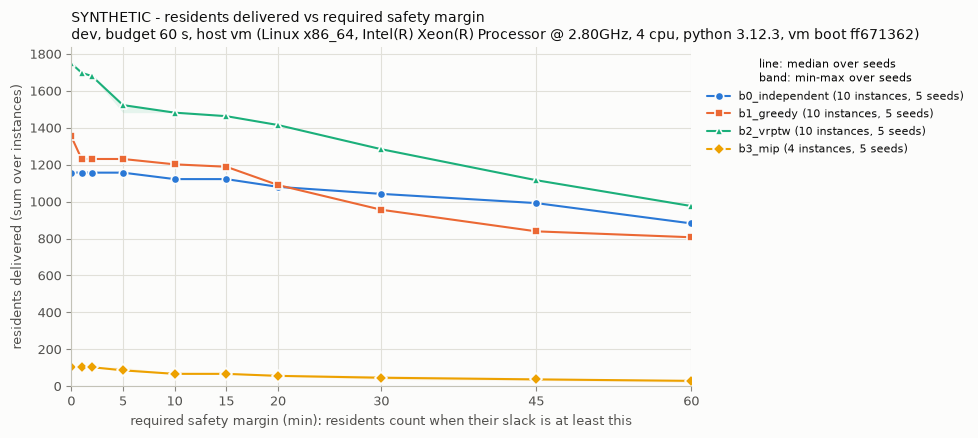
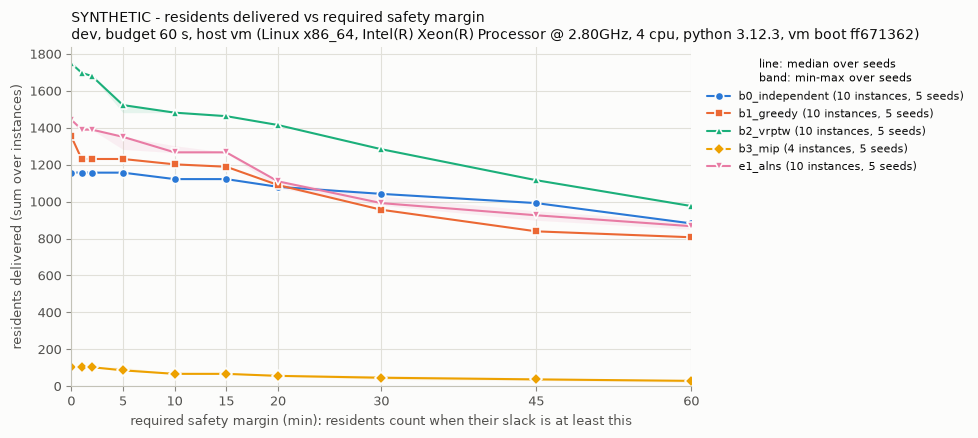
evacplan: leaderboard and margin figure with all batch-1 rows
Regenerated after merging E4, E1 and E3 (SYNTHETIC dev, 60 s, this VM
session): E1 1444 [1443-1446], verdict no (worst 1443 <= bar 1750); E4's
bounds join the best-bound column (no bound below a delivered plan).

Claude-Session: https://claude.ai/code/session_017vgyRQ18Wb67jh12VCHF54

diff --git a/evacplan/LEADERBOARD.md b/evacplan/LEADERBOARD.md
@@ -9,6 +9,7 @@ Regenerated by `evacplan run` and `evacplan leaderboard` from `evacplan/results/
 * **Beating B2** (`program/DECISIONS.md`, 2026-11-01): the **best-of-baselines total** is the sum over the set's instances of the most residents any baseline (B0, B1, B2, B3; any seed) delivered on that instance; **B2 best observed** is the largest B2 per-seed total over the seeds that cover every instance of the set, or a recorded observation of B2 for the same set, budget and host (`docs/recorded_observations.json`, printed with its source), whichever is larger; the **bar** is the larger of the two. A method other than the baselines and noop beats B2 only if its worst of 5 repeats exceeds the bar: it needs at least 5 repeats, each covering every instance of the set, and its lowest per-seed total must be above the bar. Otherwise the verdict is no (worst ≤ bar) or n/a (fewer than 5 repeats, a repeat missing an instance, or no bar on this host).
 * **slack ≥ m min** = residents delivered with a safety slack of at least m minutes: the smallest oracle leg slack over their vehicle's legs from the start of its itinerary through the unloading that delivers them, each leg's slack capped at the time left before the hazard horizon (`docs/ASSUMPTIONS.md` #91). slack ≥ 0 equals delivered. The problem definition is unchanged: delivered counts every checked trip whatever its margin. Each table's figure plots residents delivered against the required margin (0-60 min).
 * **mean gap** = mean of (best bound - delivered) / best bound over the method's own proven bounds (exact or relaxation methods, e.g. B3 on S instances only); a method that runs on fewer instances is summed over fewer residents (see the size table).
+* **Bound-only methods** (e.g. `e4_flow_bound`, `docs/ASSUMPTIONS.md` #94) plan nothing and only prove an upper bound on the residents any plan can deliver. Their bounds enter the best-bound column and their own bounds table (with runtime and the gap to the best plan of the table); they are left out of the method table, the verdicts and the margin figure. A proven bound does not depend on the budget that computed it, so their rows join every table of the same set and host.
 * **SYNTHETIC** rows are SYNTHETIC instances (`evacplan/instances/SPLIT.json`), not real-world results.
 
 ## dev, budget 60 s, host vm (Linux x86_64, Intel(R) Xeon(R) Processor @ 2.80GHz, 4 cpu, python 3.12.3, vm boot ff671362)
@@ -21,6 +22,7 @@ Rows from this host only; no row of another host enters this table, its bar or i
 | b1_greedy | SYNTHETIC | 10 | 5 | 1353 (68.5%) | 0 | 0 | 622 | 1 | 1975 | 1231 | 1189 | 956 | 1.9 | 3.987 | 0 | – | baseline | c888a87b02c5 |
 | b2_vrptw | SYNTHETIC | 10 | 5 | 1749 (88.6%) | 0 | 0 | 226 | 1 | 1975 | 1523 [1482–1523] | 1463 | 1284 | 16.7 | 57.517 | 0 | – | baseline | c78721e60526 |
 | b3_mip | SYNTHETIC | 4 | 5 | 103 (89.6%) [103–104] | 0 | 0 | 12 [11–12] | 1 | 115 | 86 [85–103] | 67 [66–68] | 46 [37–57] | 223.3 | 40.875 | 0 | 0.087 | baseline | c888a87b02c5 |
+| e1_alns | SYNTHETIC | 10 | 5 | 1444 (73.1%) [1443–1446] | 0 | 0 | 531 [529–532] | 1 | 1975 | 1351 [1283–1352] | 1267 [1265–1267] | 992 [980–1030] | 1.9 | 55.764 | 0 | – | no (worst 1443 ≤ bar 1750) | 483eb527cba4 |
 | noop | SYNTHETIC | 10 | 5 | 0 (0.0%) | 0 | 0 | 1975 | 1 | 1975 | 0 | 0 | 0 | – | 0.000 | 0 | – | – | c888a87b02c5 |
 
 Bar for beating B2 on this host: max(B2 best observed 1750 [recorded: Phase 0 review, B2's full run on dev at 60 s, review of commit 957e6720 (program/reviews/phase0-review.md)], best-of-baselines total 1750) = 1750; a method beats B2 only if its worst of ≥5 repeats exceeds 1750.
@@ -31,80 +33,97 @@ Residents delivered vs required safety margin (line: median over seeds; band: mi
 
 ![SYNTHETIC: residents delivered vs required margin, dev, 60 s, this host](figures/margin_dev_60s_vm-linux-x86-64-intel-r-xeon-r-processor-2-80ghz-4-cpu-python-3-12-3-vm-boot-ff6-ef32643b.png)
 
-Delivered (checked) per instance, median over seeds [min–max when they differ]; **best bound** = the smallest proven upper bound any method reports for the instance (no plan can deliver more); **best of baselines** = the most residents any baseline delivered on the instance (any seed), summed in the bar above:
+Delivered (checked) per instance, median over seeds [min–max when they differ]; **best bound** = the smallest proven upper bound any method reports for the instance, bound-only methods included (no plan can deliver more); **best of baselines** = the most residents any baseline delivered on the instance (any seed), summed in the bar above:
 
-| instance | label | residents | unservable | best bound | best of baselines | b0_independent | b1_greedy | b2_vrptw | b3_mip | noop |
-|---|---|---|---|---|---|---|---|---|---|---|
-| SYNTHETIC-S-grid-t25-s101 | SYNTHETIC | 23 | 0 | 23 | 23 | 23 | 23 | 23 | 23 | 0 |
-| SYNTHETIC-S-geo-t25-s102 | SYNTHETIC | 39 | 0 | 39 | 37 | 28 | 37 | 36 | 34 [34–35] | 0 |
-| SYNTHETIC-S-grid-t75-s103 | SYNTHETIC | 27 | 1 | 26 | 23 | 20 | 20 | 23 | 21 | 0 |
-| SYNTHETIC-S-geo-t75-s104 | SYNTHETIC | 26 | 0 | 26 | 26 | 10 | 24 | 26 | 25 | 0 |
-| SYNTHETIC-M-grid-t25-s105 | SYNTHETIC | 163 | 0 | – | 163 | 132 | 163 | 163 | – | 0 |
-| SYNTHETIC-M-geo-t25-s106 | SYNTHETIC | 155 | 0 | – | 155 | 128 | 155 | 155 | – | 0 |
-| SYNTHETIC-M-grid-t75-s107 | SYNTHETIC | 168 | 0 | – | 140 | 77 | 100 | 140 | – | 0 |
-| SYNTHETIC-M-geo-t75-s108 | SYNTHETIC | 149 | 0 | – | 139 | 95 | 101 | 139 | – | 0 |
-| SYNTHETIC-L-grid-t50-s109 | SYNTHETIC | 646 | 0 | – | 516 | 314 | 335 | 516 | – | 0 |
-| SYNTHETIC-L-geo-t50-s110 | SYNTHETIC | 579 | 0 | – | 528 | 330 | 395 | 528 | – | 0 |
+| instance | label | residents | unservable | best bound | best of baselines | b0_independent | b1_greedy | b2_vrptw | b3_mip | e1_alns | noop |
+|---|---|---|---|---|---|---|---|---|---|---|---|
+| SYNTHETIC-S-grid-t25-s101 | SYNTHETIC | 23 | 0 | 23 | 23 | 23 | 23 | 23 | 23 | 23 | 0 |
+| SYNTHETIC-S-geo-t25-s102 | SYNTHETIC | 39 | 0 | 39 | 37 | 28 | 37 | 36 | 34 [34–35] | 37 | 0 |
+| SYNTHETIC-S-grid-t75-s103 | SYNTHETIC | 27 | 1 | 25 | 23 | 20 | 20 | 23 | 21 | 23 | 0 |
+| SYNTHETIC-S-geo-t75-s104 | SYNTHETIC | 26 | 0 | 26 | 26 | 10 | 24 | 26 | 25 | 26 | 0 |
+| SYNTHETIC-M-grid-t25-s105 | SYNTHETIC | 163 | 0 | 163 | 163 | 132 | 163 | 163 | – | 163 | 0 |
+| SYNTHETIC-M-geo-t25-s106 | SYNTHETIC | 155 | 0 | 155 | 155 | 128 | 155 | 155 | – | 155 | 0 |
+| SYNTHETIC-M-grid-t75-s107 | SYNTHETIC | 168 | 0 | 160 | 140 | 77 | 100 | 140 | – | 148 [147–150] | 0 |
+| SYNTHETIC-M-geo-t75-s108 | SYNTHETIC | 149 | 0 | 144 | 139 | 95 | 101 | 139 | – | 139 | 0 |
+| SYNTHETIC-L-grid-t50-s109 | SYNTHETIC | 646 | 0 | 646 | 516 | 314 | 335 | 516 | – | 335 | 0 |
+| SYNTHETIC-L-geo-t50-s110 | SYNTHETIC | 579 | 0 | 579 | 528 | 330 | 395 | 528 | – | 395 | 0 |
+
+Proven upper bounds of bound-only methods (they plan nothing: not in the method table, no verdict, not in the figure; their rows join every table of this set and host, whatever budget computed them); **gap** = (bound - best delivered) / bound, **best delivered** = the most residents any method delivered on the instance in this table (any seed):
+
+| instance | label | residents | best delivered | e4_flow_bound | gap | runtime (s) |
+|---|---|---|---|---|---|---|
+| SYNTHETIC-S-grid-t25-s101 | SYNTHETIC | 23 | 23 | 23 | 0.0% | 3.9 |
+| SYNTHETIC-S-geo-t25-s102 | SYNTHETIC | 39 | 37 | 39 | 5.1% | 6.4 |
+| SYNTHETIC-S-grid-t75-s103 | SYNTHETIC | 27 | 23 | 25 | 8.0% | 1.3 |
+| SYNTHETIC-S-geo-t75-s104 | SYNTHETIC | 26 | 26 | 26 | 0.0% | 1.2 |
+| SYNTHETIC-M-grid-t25-s105 | SYNTHETIC | 163 | 163 | 163 | 0.0% | 221.5 |
+| SYNTHETIC-M-geo-t25-s106 | SYNTHETIC | 155 | 155 | 155 | 0.0% | 595.9 |
+| SYNTHETIC-M-grid-t75-s107 | SYNTHETIC | 168 | 150 | 160 | 6.2% | 164.8 |
+| SYNTHETIC-M-geo-t75-s108 | SYNTHETIC | 149 | 139 | 144 | 3.5% | 200.1 |
+| SYNTHETIC-L-grid-t50-s109 | SYNTHETIC | 646 | 516 | 646 | 20.1% | 881.1 |
+| SYNTHETIC-L-geo-t50-s110 | SYNTHETIC | 579 | 528 | 579 | 8.8% | 880.5 |
+
+Mean gap of e4_flow_bound by size (instances): S 3.3% (4), M 2.4% (4), L 14.5% (2), all 5.2% (10); computed at budget 900 s, commit a4c8887318af.
 
 Unresolved per instance (never safe, never delivered), median over seeds [min–max when they differ]:
 
-| instance | label | b0_independent | b1_greedy | b2_vrptw | b3_mip | noop |
-|---|---|---|---|---|---|---|
-| SYNTHETIC-S-grid-t25-s101 | SYNTHETIC | 0 | 0 | 0 | 0 | 0 |
-| SYNTHETIC-S-geo-t25-s102 | SYNTHETIC | 0 | 0 | 0 | 0 | 0 |
-| SYNTHETIC-S-grid-t75-s103 | SYNTHETIC | 0 | 0 | 0 | 0 | 0 |
-| SYNTHETIC-S-geo-t75-s104 | SYNTHETIC | 0 | 0 | 0 | 0 | 0 |
-| SYNTHETIC-M-grid-t25-s105 | SYNTHETIC | 0 | 0 | 0 | – | 0 |
-| SYNTHETIC-M-geo-t25-s106 | SYNTHETIC | 0 | 0 | 0 | – | 0 |
-| SYNTHETIC-M-grid-t75-s107 | SYNTHETIC | 0 | 0 | 0 | – | 0 |
-| SYNTHETIC-M-geo-t75-s108 | SYNTHETIC | 0 | 0 | 0 | – | 0 |
-| SYNTHETIC-L-grid-t50-s109 | SYNTHETIC | 0 | 0 | 0 | – | 0 |
-| SYNTHETIC-L-geo-t50-s110 | SYNTHETIC | 0 | 0 | 0 | – | 0 |
+| instance | label | b0_independent | b1_greedy | b2_vrptw | b3_mip | e1_alns | noop |
+|---|---|---|---|---|---|---|---|
+| SYNTHETIC-S-grid-t25-s101 | SYNTHETIC | 0 | 0 | 0 | 0 | 0 | 0 |
+| SYNTHETIC-S-geo-t25-s102 | SYNTHETIC | 0 | 0 | 0 | 0 | 0 | 0 |
+| SYNTHETIC-S-grid-t75-s103 | SYNTHETIC | 0 | 0 | 0 | 0 | 0 | 0 |
+| SYNTHETIC-S-geo-t75-s104 | SYNTHETIC | 0 | 0 | 0 | 0 | 0 | 0 |
+| SYNTHETIC-M-grid-t25-s105 | SYNTHETIC | 0 | 0 | 0 | – | 0 | 0 |
+| SYNTHETIC-M-geo-t25-s106 | SYNTHETIC | 0 | 0 | 0 | – | 0 | 0 |
+| SYNTHETIC-M-grid-t75-s107 | SYNTHETIC | 0 | 0 | 0 | – | 0 | 0 |
+| SYNTHETIC-M-geo-t75-s108 | SYNTHETIC | 0 | 0 | 0 | – | 0 | 0 |
+| SYNTHETIC-L-grid-t50-s109 | SYNTHETIC | 0 | 0 | 0 | – | 0 | 0 |
+| SYNTHETIC-L-geo-t50-s110 | SYNTHETIC | 0 | 0 | 0 | – | 0 | 0 |
 
 Delivered with slack ≥ 5 min per instance, median over seeds [min–max when they differ] (– : rows from before the margin columns):
 
-| instance | label | b0_independent | b1_greedy | b2_vrptw | b3_mip | noop |
-|---|---|---|---|---|---|---|
-| SYNTHETIC-S-grid-t25-s101 | SYNTHETIC | 23 | 23 | 23 | 23 | 0 |
-| SYNTHETIC-S-geo-t25-s102 | SYNTHETIC | 28 | 37 | 36 | 34 [34–35] | 0 |
-| SYNTHETIC-S-grid-t75-s103 | SYNTHETIC | 20 | 20 | 8 | 21 | 0 |
-| SYNTHETIC-S-geo-t75-s104 | SYNTHETIC | 10 | 10 | 8 | 7 [7–25] | 0 |
-| SYNTHETIC-M-grid-t25-s105 | SYNTHETIC | 132 | 163 | 163 | – | 0 |
-| SYNTHETIC-M-geo-t25-s106 | SYNTHETIC | 128 | 155 | 155 | – | 0 |
-| SYNTHETIC-M-grid-t75-s107 | SYNTHETIC | 77 | 46 | 41 | – | 0 |
-| SYNTHETIC-M-geo-t75-s108 | SYNTHETIC | 95 | 101 | 139 | – | 0 |
-| SYNTHETIC-L-grid-t50-s109 | SYNTHETIC | 314 | 281 | 516 | – | 0 |
-| SYNTHETIC-L-geo-t50-s110 | SYNTHETIC | 330 | 395 | 434 [393–434] | – | 0 |
+| instance | label | b0_independent | b1_greedy | b2_vrptw | b3_mip | e1_alns | noop |
+|---|---|---|---|---|---|---|---|
+| SYNTHETIC-S-grid-t25-s101 | SYNTHETIC | 23 | 23 | 23 | 23 | 23 | 0 |
+| SYNTHETIC-S-geo-t25-s102 | SYNTHETIC | 28 | 37 | 36 | 34 [34–35] | 37 | 0 |
+| SYNTHETIC-S-grid-t75-s103 | SYNTHETIC | 20 | 20 | 8 | 21 | 4 | 0 |
+| SYNTHETIC-S-geo-t75-s104 | SYNTHETIC | 10 | 10 | 8 | 7 [7–25] | 6 | 0 |
+| SYNTHETIC-M-grid-t25-s105 | SYNTHETIC | 132 | 163 | 163 | – | 163 | 0 |
+| SYNTHETIC-M-geo-t25-s106 | SYNTHETIC | 128 | 155 | 155 | – | 155 | 0 |
+| SYNTHETIC-M-grid-t75-s107 | SYNTHETIC | 77 | 46 | 41 | – | 148 [80–149] | 0 |
+| SYNTHETIC-M-geo-t75-s108 | SYNTHETIC | 95 | 101 | 139 | – | 139 | 0 |
+| SYNTHETIC-L-grid-t50-s109 | SYNTHETIC | 314 | 281 | 516 | – | 281 | 0 |
+| SYNTHETIC-L-geo-t50-s110 | SYNTHETIC | 330 | 395 | 434 [393–434] | – | 395 | 0 |
 
 Delivered with slack ≥ 15 min per instance, median over seeds [min–max when they differ] (– : rows from before the margin columns):
 
-| instance | label | b0_independent | b1_greedy | b2_vrptw | b3_mip | noop |
-|---|---|---|---|---|---|---|
-| SYNTHETIC-S-grid-t25-s101 | SYNTHETIC | 23 | 23 | 23 | 23 | 0 |
-| SYNTHETIC-S-geo-t25-s102 | SYNTHETIC | 28 | 27 | 36 | 34 [34–35] | 0 |
-| SYNTHETIC-S-grid-t75-s103 | SYNTHETIC | 20 | 20 | 8 | 3 | 0 |
-| SYNTHETIC-S-geo-t75-s104 | SYNTHETIC | 10 | 10 | 8 | 7 [6–7] | 0 |
-| SYNTHETIC-M-grid-t25-s105 | SYNTHETIC | 132 | 163 | 153 | – | 0 |
-| SYNTHETIC-M-geo-t25-s106 | SYNTHETIC | 93 | 155 | 155 | – | 0 |
-| SYNTHETIC-M-grid-t75-s107 | SYNTHETIC | 77 | 30 | 41 | – | 0 |
-| SYNTHETIC-M-geo-t75-s108 | SYNTHETIC | 95 | 101 | 139 | – | 0 |
-| SYNTHETIC-L-grid-t50-s109 | SYNTHETIC | 314 | 281 | 516 | – | 0 |
-| SYNTHETIC-L-geo-t50-s110 | SYNTHETIC | 330 | 379 | 384 | – | 0 |
+| instance | label | b0_independent | b1_greedy | b2_vrptw | b3_mip | e1_alns | noop |
+|---|---|---|---|---|---|---|---|
+| SYNTHETIC-S-grid-t25-s101 | SYNTHETIC | 23 | 23 | 23 | 23 | 23 | 0 |
+| SYNTHETIC-S-geo-t25-s102 | SYNTHETIC | 28 | 27 | 36 | 34 [34–35] | 37 | 0 |
+| SYNTHETIC-S-grid-t75-s103 | SYNTHETIC | 20 | 20 | 8 | 3 | 4 | 0 |
+| SYNTHETIC-S-geo-t75-s104 | SYNTHETIC | 10 | 10 | 8 | 7 [6–7] | 6 | 0 |
+| SYNTHETIC-M-grid-t25-s105 | SYNTHETIC | 132 | 163 | 153 | – | 163 | 0 |
+| SYNTHETIC-M-geo-t25-s106 | SYNTHETIC | 93 | 155 | 155 | – | 155 | 0 |
+| SYNTHETIC-M-grid-t75-s107 | SYNTHETIC | 77 | 30 | 41 | – | 80 [78–80] | 0 |
+| SYNTHETIC-M-geo-t75-s108 | SYNTHETIC | 95 | 101 | 139 | – | 139 | 0 |
+| SYNTHETIC-L-grid-t50-s109 | SYNTHETIC | 314 | 281 | 516 | – | 281 | 0 |
+| SYNTHETIC-L-geo-t50-s110 | SYNTHETIC | 330 | 379 | 384 | – | 379 | 0 |
 
 Delivered with slack ≥ 30 min per instance, median over seeds [min–max when they differ] (– : rows from before the margin columns):
 
-| instance | label | b0_independent | b1_greedy | b2_vrptw | b3_mip | noop |
-|---|---|---|---|---|---|---|
-| SYNTHETIC-S-grid-t25-s101 | SYNTHETIC | 18 | 23 | 23 | 23 [15–23] | 0 |
-| SYNTHETIC-S-geo-t25-s102 | SYNTHETIC | 27 | 27 | 14 | 23 [22–34] | 0 |
-| SYNTHETIC-S-grid-t75-s103 | SYNTHETIC | 0 | 0 | 0 | 0 | 0 |
-| SYNTHETIC-S-geo-t75-s104 | SYNTHETIC | 10 | 0 | 0 | 0 | 0 |
-| SYNTHETIC-M-grid-t25-s105 | SYNTHETIC | 132 | 163 | 153 | – | 0 |
-| SYNTHETIC-M-geo-t25-s106 | SYNTHETIC | 81 | 155 | 155 | – | 0 |
-| SYNTHETIC-M-grid-t75-s107 | SYNTHETIC | 57 | 1 | 41 | – | 0 |
-| SYNTHETIC-M-geo-t75-s108 | SYNTHETIC | 93 | 101 | 111 | – | 0 |
-| SYNTHETIC-L-grid-t50-s109 | SYNTHETIC | 294 | 225 | 491 | – | 0 |
-| SYNTHETIC-L-geo-t50-s110 | SYNTHETIC | 330 | 261 | 296 | – | 0 |
+| instance | label | b0_independent | b1_greedy | b2_vrptw | b3_mip | e1_alns | noop |
+|---|---|---|---|---|---|---|---|
+| SYNTHETIC-S-grid-t25-s101 | SYNTHETIC | 18 | 23 | 23 | 23 [15–23] | 23 | 0 |
+| SYNTHETIC-S-geo-t25-s102 | SYNTHETIC | 27 | 27 | 14 | 23 [22–34] | 15 | 0 |
+| SYNTHETIC-S-grid-t75-s103 | SYNTHETIC | 0 | 0 | 0 | 0 | 0 | 0 |
+| SYNTHETIC-S-geo-t75-s104 | SYNTHETIC | 10 | 0 | 0 | 0 | 6 | 0 |
+| SYNTHETIC-M-grid-t25-s105 | SYNTHETIC | 132 | 163 | 153 | – | 163 | 0 |
+| SYNTHETIC-M-geo-t25-s106 | SYNTHETIC | 81 | 155 | 155 | – | 155 | 0 |
+| SYNTHETIC-M-grid-t75-s107 | SYNTHETIC | 57 | 1 | 41 | – | 42 [5–43] | 0 |
+| SYNTHETIC-M-geo-t75-s108 | SYNTHETIC | 93 | 101 | 111 | – | 139 [90–139] | 0 |
+| SYNTHETIC-L-grid-t50-s109 | SYNTHETIC | 294 | 225 | 491 | – | 225 | 0 |
+| SYNTHETIC-L-geo-t50-s110 | SYNTHETIC | 330 | 261 | 296 | – | 261 | 0 |
 
 Delivered (checked) by instance size: sum of the per-instance medians / residents of the instances the method ran (count); compare methods only on equal counts:
 
@@ -114,4 +133,5 @@ Delivered (checked) by instance size: sum of the per-instance medians / resident
 | b1_greedy | 104 / 115 (4) | 519 / 635 (4) | 730 / 1225 (2) |
 | b2_vrptw | 108 / 115 (4) | 597 / 635 (4) | 1044 / 1225 (2) |
 | b3_mip | 103 / 115 (4) | – | – |
+| e1_alns | 109 / 115 (4) | 605 / 635 (4) | 730 / 1225 (2) |
 | noop | 0 / 115 (4) | 0 / 635 (4) | 0 / 1225 (2) |
